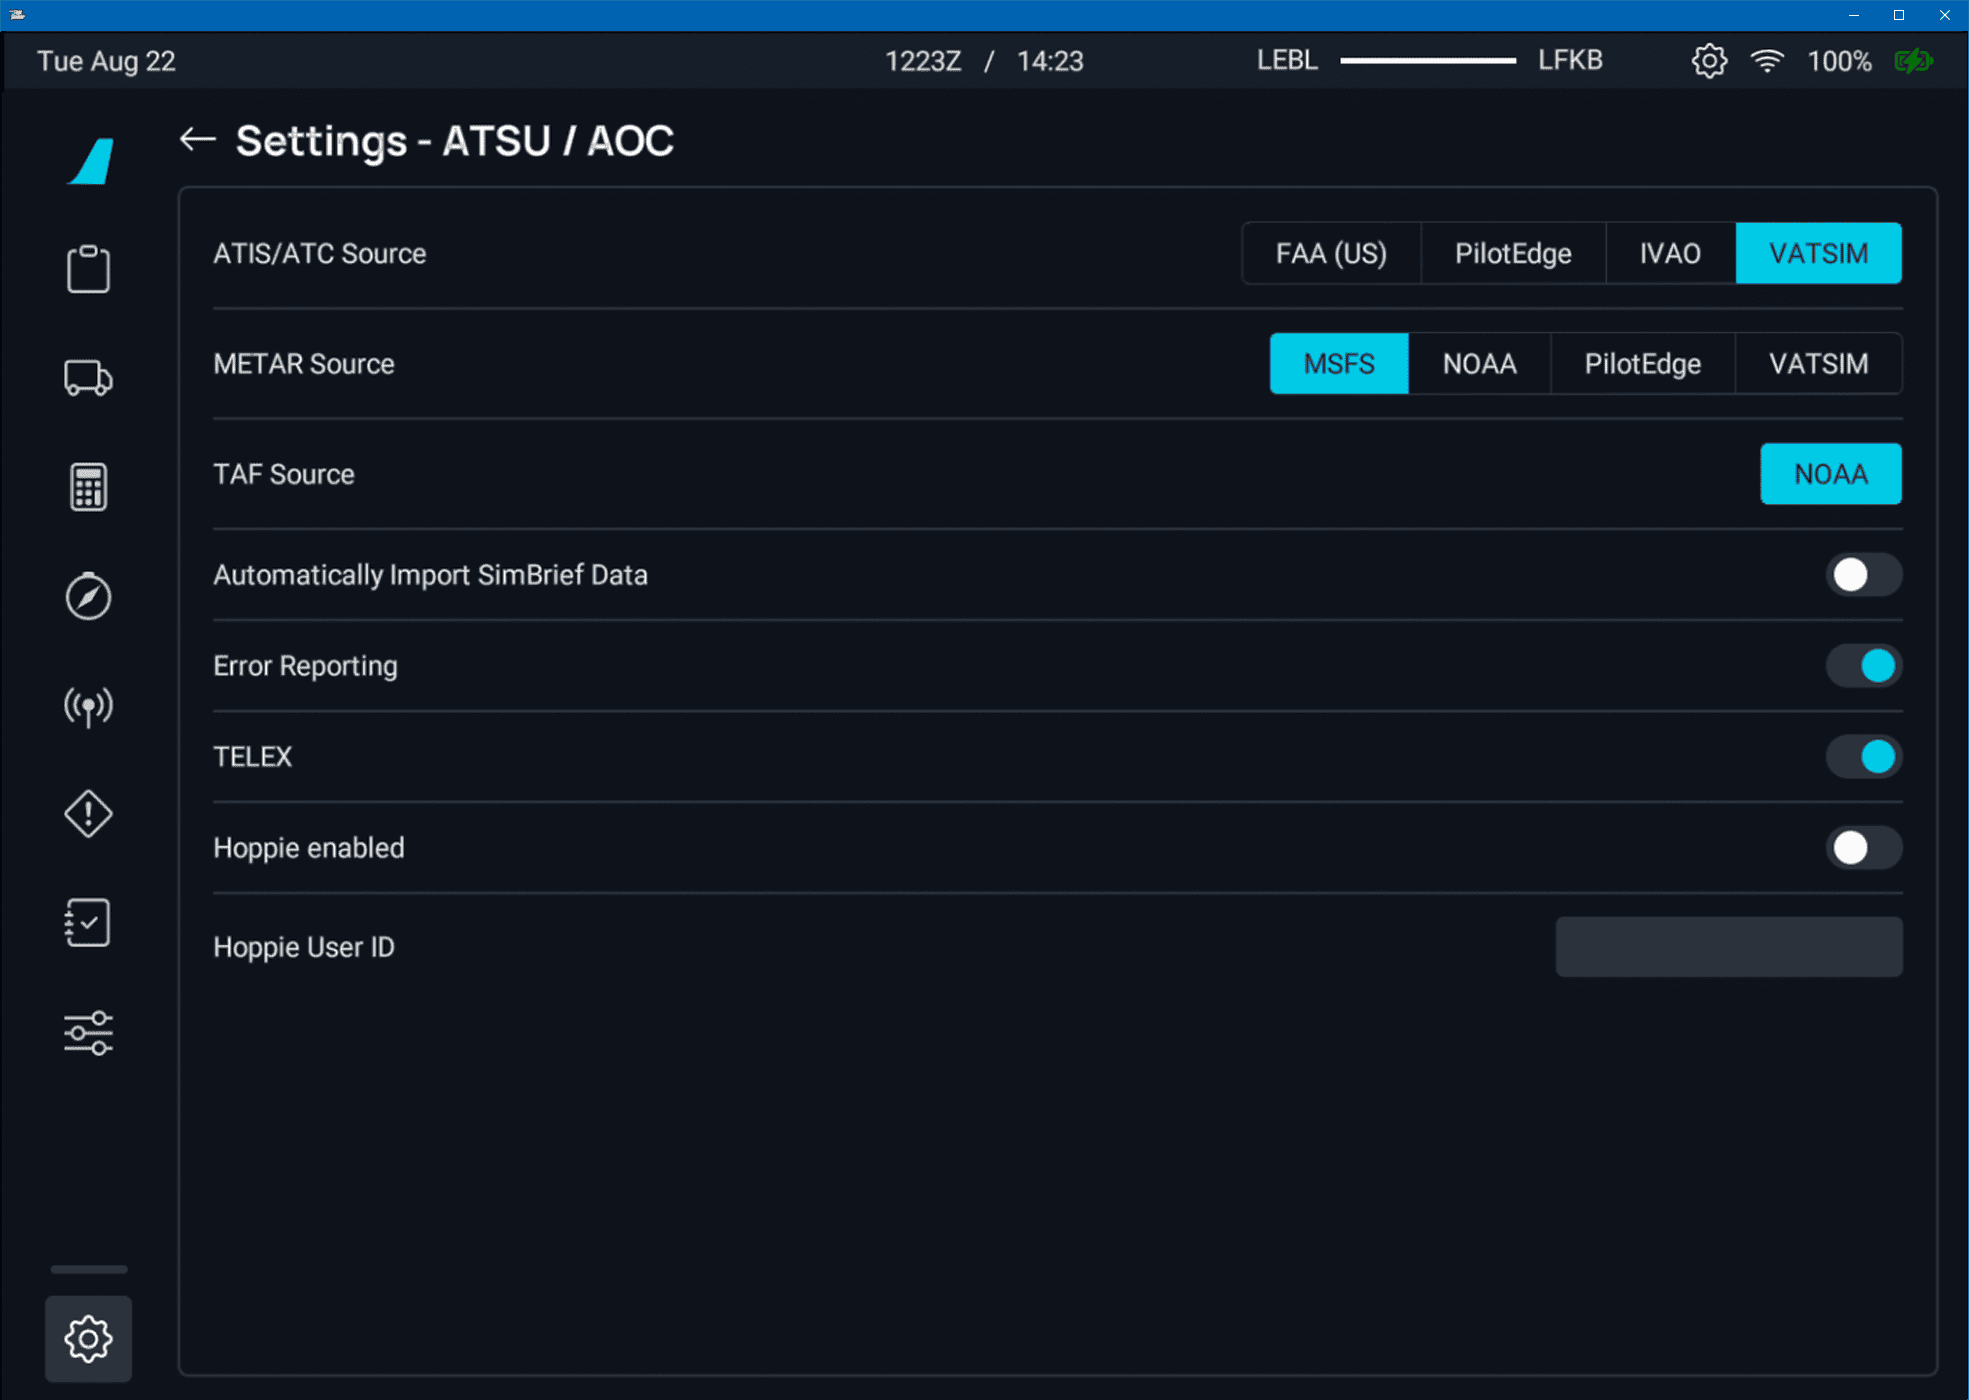
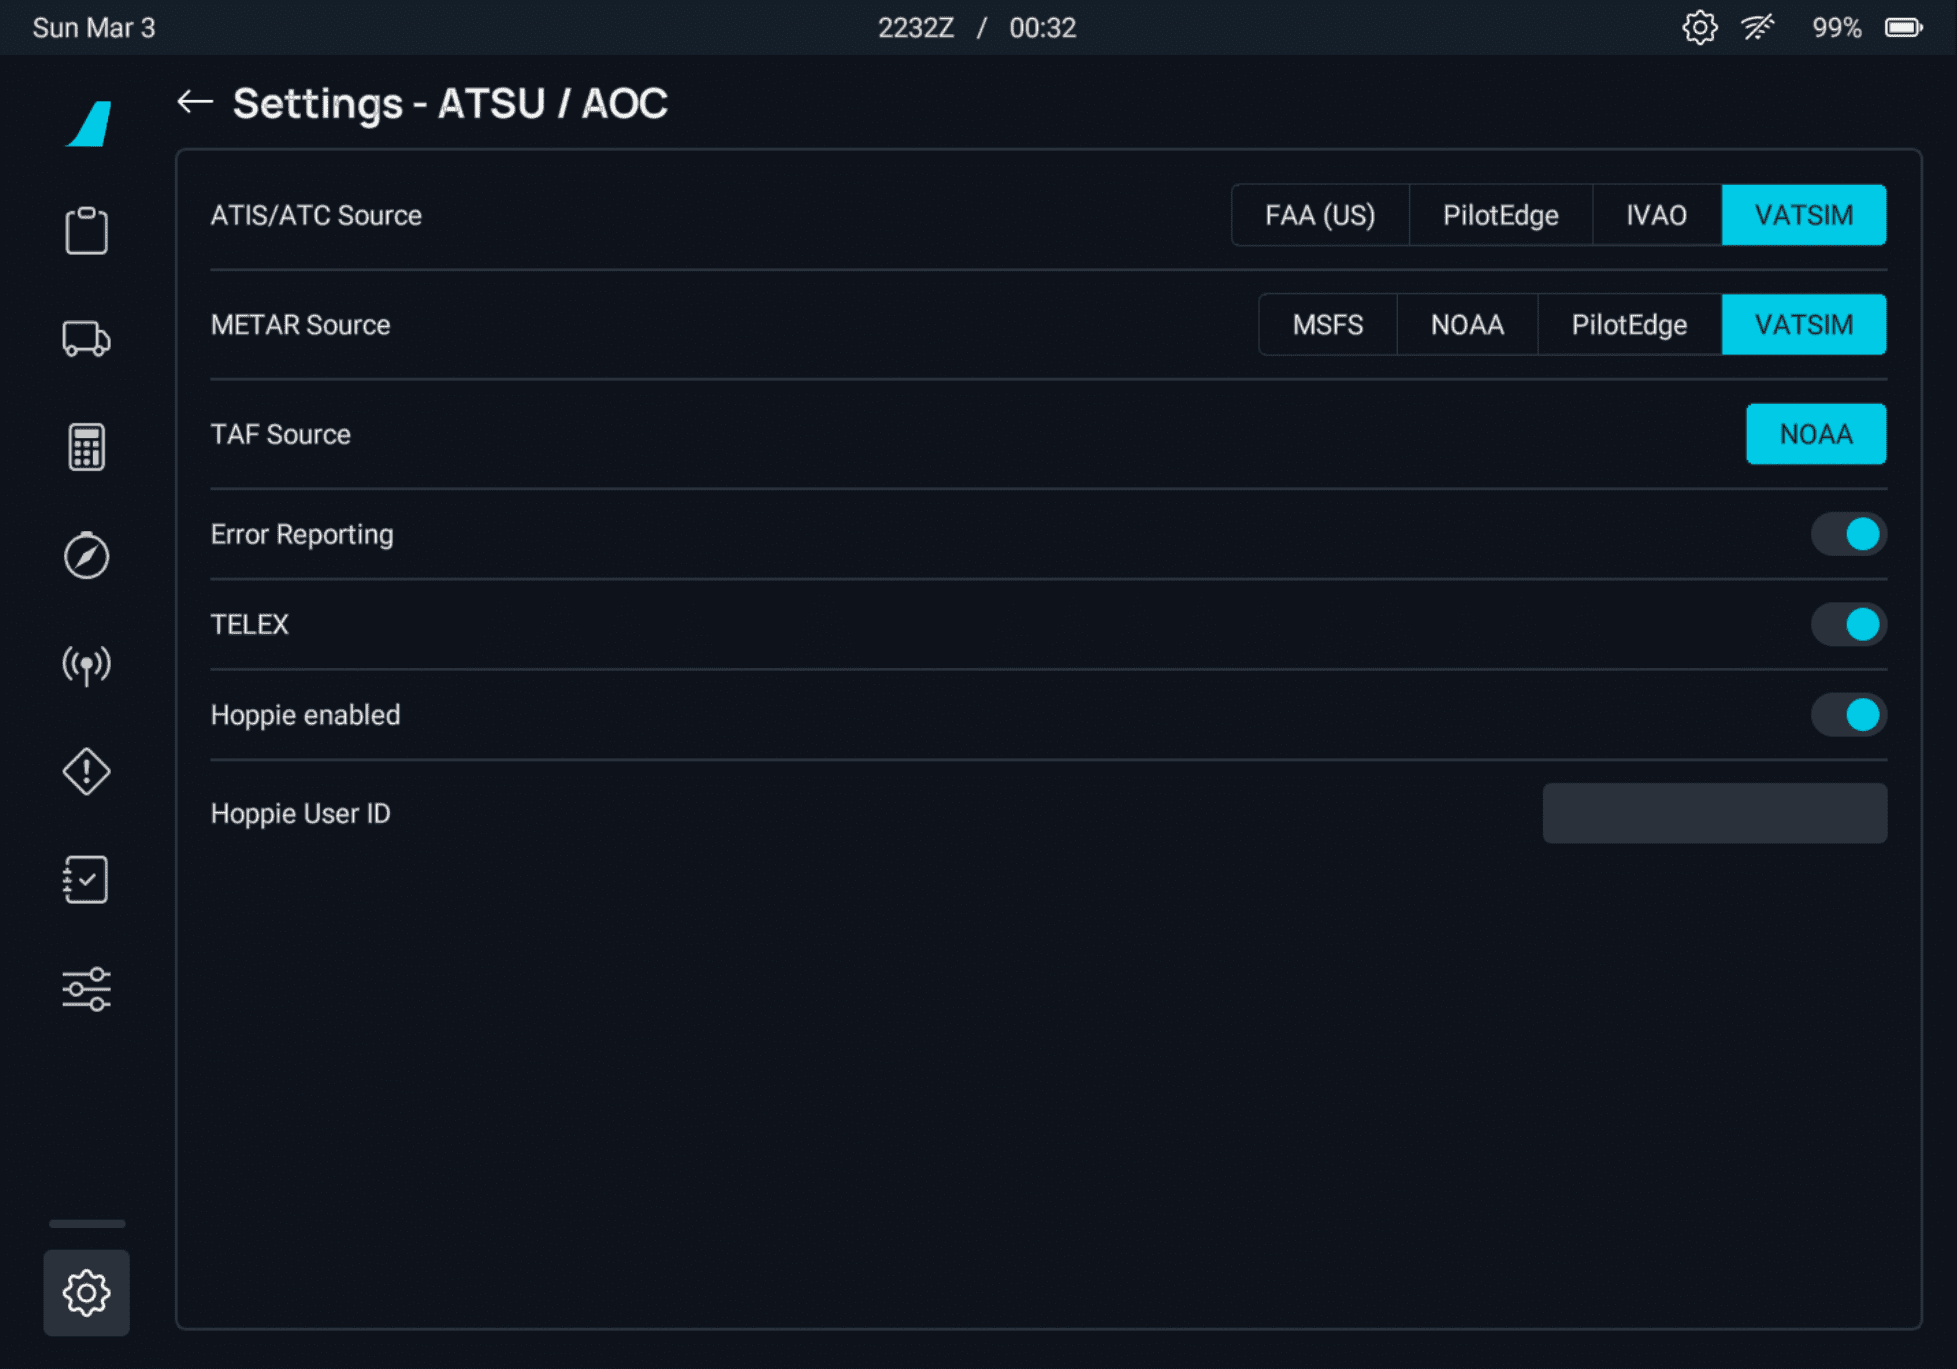
feat(flypad-settings): Move Simbrief Import section & introduce navigraph section  (#946)
* move autosimbrief & introduce navigraph section

* Update docs/fbw-a32nx/feature-guides/flypados3/settings.md

* Update docs/fbw-a32nx/feature-guides/flypados3/settings.md

* Update docs/fbw-a32nx/feature-guides/flypados3/settings.md

* update images

---------

diff --git a/docs/fbw-a32nx/feature-guides/flypados3/settings.md b/docs/fbw-a32nx/feature-guides/flypados3/settings.md
@@ -239,6 +239,15 @@ Settings for integrations with various 3rd party applications
     <span class="imagesub">Click on the menu icons in this image to see other flyPad pages.</span>
 </div>
 
+#### Navigraph Integration 
+
+- Navigraph Account Link
+    - Setup wizard to connect your Navigraph Account with the flypad.
+- Override SimBrief User ID
+    - Allows users to input a custom SimBrief User ID. For more information see [A32NX simBrief Integration](../simbrief/#setup-a32nx-simbrief-integration).
+- Automatically Import SimBrief Data
+    - Imports latest SimBrief flight automatically when starting the flyPad.
+
 #### GSX Integration
 These options are separate to provide you with the flexibility to choose what to sync with GSX and what not to sync. 
 
@@ -280,9 +289,7 @@ Settings for integration with various data and information sources.
     - Choose which weather data provider should be used (Aircraft only - does not change sim weather).
     - MeteoBlue is the weather service the sim uses as well.
 - TAF Source:
-    - Choose which Terminal Area Forecast (TAF) service should be used.
-- Automatically Import SimBrief Data
-    - Imports latest SimBrief flight automatically when starting the flyPad.   
+    - Choose, which Terminal Area Forecast (TAF) service should be used.   
 - Error Reporting
     - Enables error reports to be sent to Sentry.io to allow the FlyByWire team to easier find and resolve issues with the aircraft.
 - TELEX:
